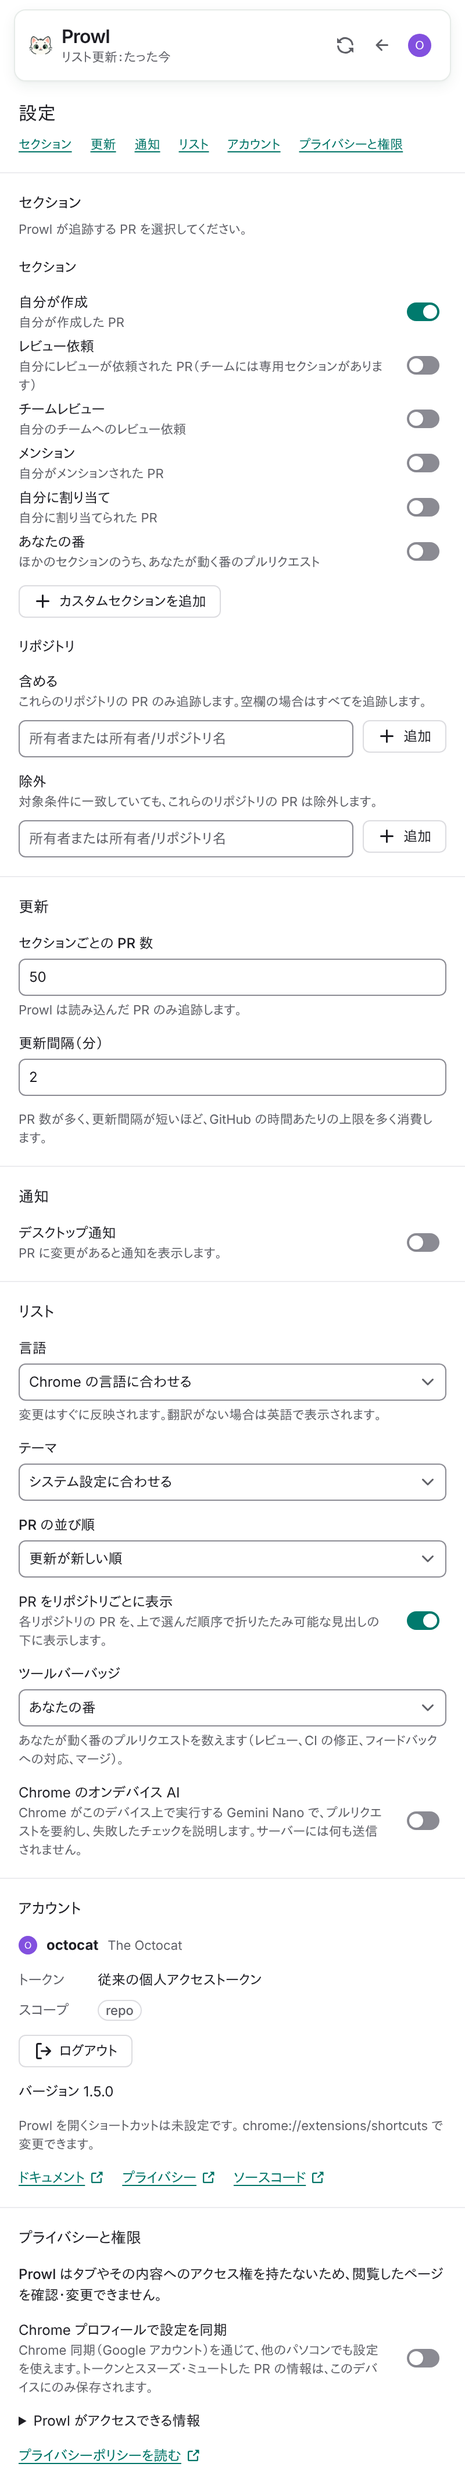
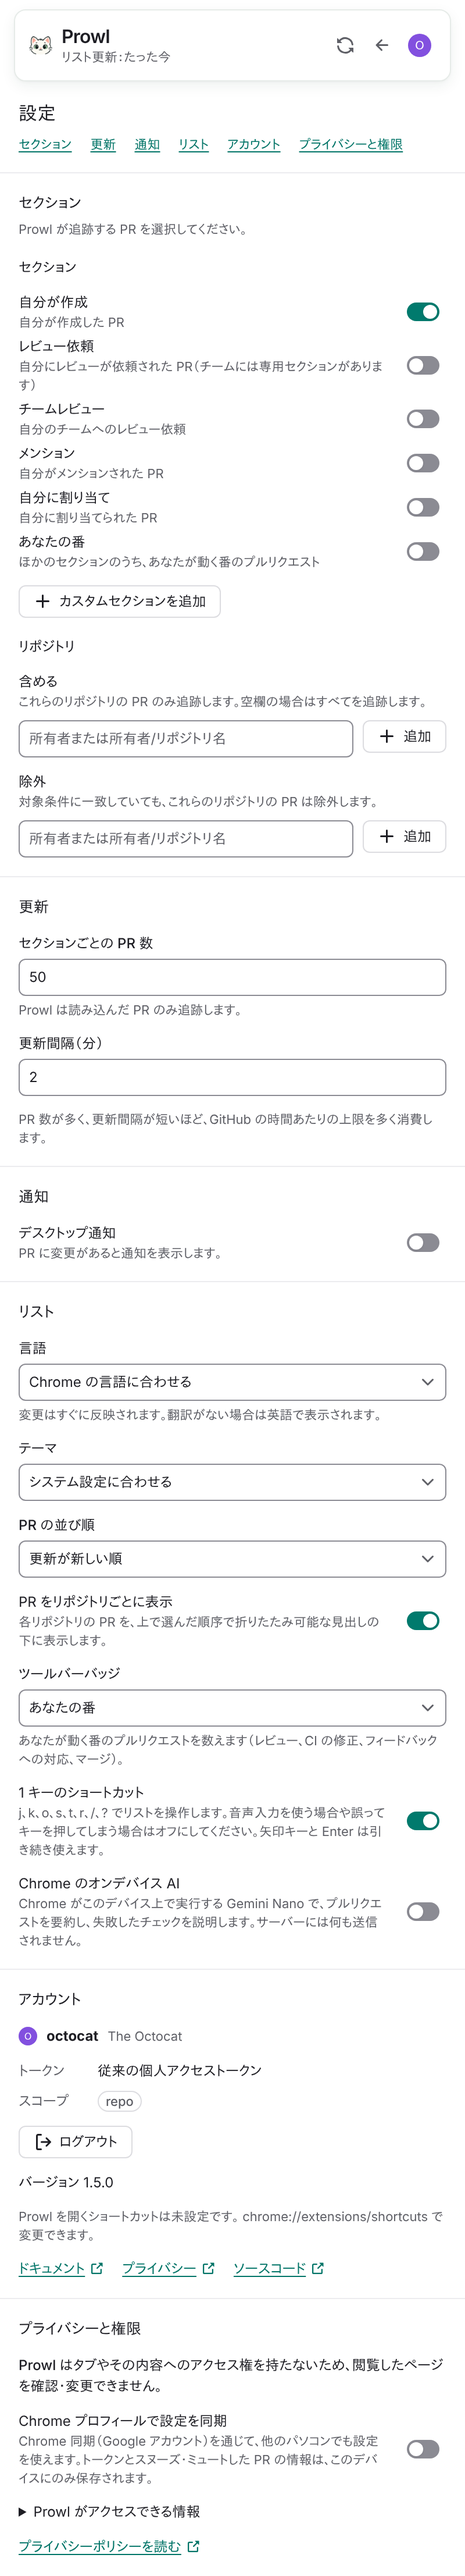
test(e2e): read turn chips as statuses, refresh affected screenshots
Turn chips now start with a screen-reader "Your turn:", so the E2E matches the full text.
Refreshed stack (title link with "and 5 more" beside it), local-ai ("Summarize again" /
"Explain again"), settings and settings-ja (Single-key shortcuts switch).

Claude-Session: https://claude.ai/code/session_01DJF4RucRW6yD1TF1hTz2fT

diff --git a/tests/e2e/your-turn.spec.ts b/tests/e2e/your-turn.spec.ts
@@ -51,8 +51,10 @@ test('the Your turn section lists what waits on you, with why, and matches the b
   await expect(tab).toHaveText('Your turn2');
   await tab.click();
   await expect(panel.locator('.pr-card__title')).toHaveText(['Asks for my review', 'My red build']);
-  await expect(panel.locator('.pr-card__chips').getByText('Review', { exact: true })).toBeVisible();
-  await expect(panel.getByText('Fix CI · 1 failing', { exact: true })).toBeVisible();
+  await expect(
+    panel.locator('.pr-card__chips').getByText('Your turn: Review', { exact: true }),
+  ).toBeVisible();
+  await expect(panel.getByText('Your turn: Fix CI · 1 failing', { exact: true })).toBeVisible();
   await expectNoA11yViolations(panel);
   expect(await serviceWorker.evaluate(() => chrome.action.getBadgeText({}))).toBe('2');
 });

diff --git a/tests/e2e/card-tools.spec.ts b/tests/e2e/card-tools.spec.ts
@@ -66,7 +66,7 @@ test.describe('card tools', () => {
     const panel = await openPanel();
     await panel.getByRole('tab', { name: /^Your turn/ }).click();
     await expect(panel.locator('.turn-summary')).toContainText('Waiting on you');
-    await expect(panel.getByText(/^Fix CI · \d+ failing$/).first()).toBeVisible();
+    await expect(panel.getByText(/^Your turn: Fix CI · \d+ failing$/).first()).toBeVisible();
     await expectNoA11yViolations(panel);
     await saveScreenshot(panel, 'your-turn');
   });
